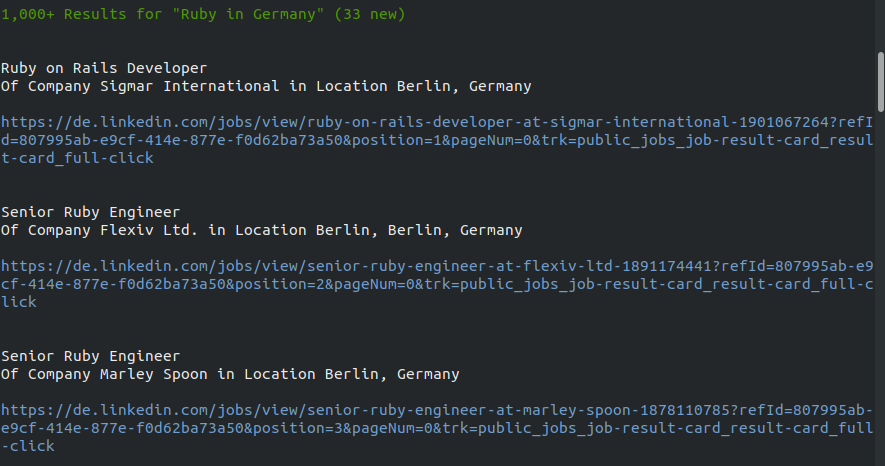
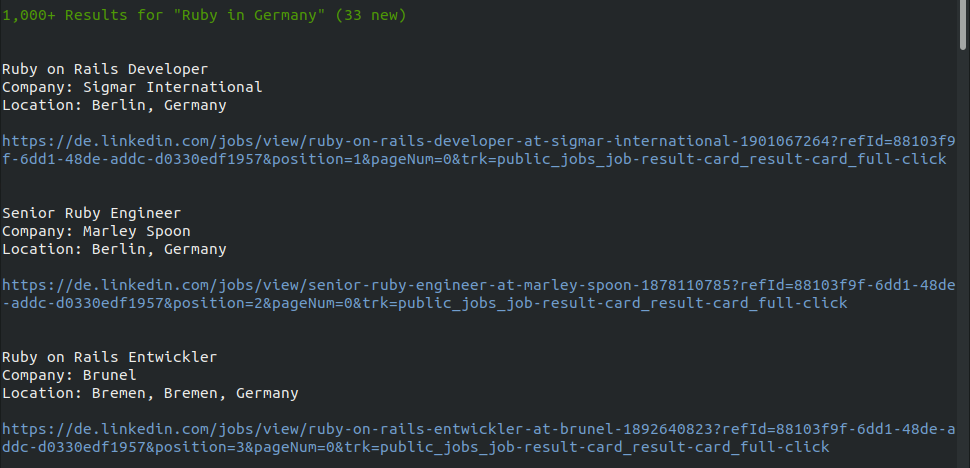
updated README.md

diff --git a/linkedin_job_scraper.rb b/linkedin_job_scraper.rb
@@ -31,7 +31,8 @@ def scraper
         }
         jobs << job
         puts "#{job[:title]} "
-        puts "Of Company #{job[:company]} in Location #{job[:location]}"
+        puts "Company: #{job[:company]}"
+        puts "Location: #{job[:location]}"
         puts ""
         puts job[:url].colorize(:light_blue )
         puts ""

diff --git a/README.md b/README.md
@@ -5,12 +5,14 @@ Linkedin Jobs Scraper to view jobs posted in Linkedin from Terminal
 ## Usage
 
 ```ruby
+# clone this repo and use below command to install required dependencies
+bundle install
 
-ruby linkedin_job_scraper.rb "Job Title"  "Place/Contry"
+# Run the script
+ruby linkedin_job_scraper.rb Ruby Germany
 
 #Example
-
-ruby linkedin_job_scraper.rb Ruby Germany
+ruby linkedin_job_scraper.rb "Job Title"  "Place/Contry"
 
 ```
 
